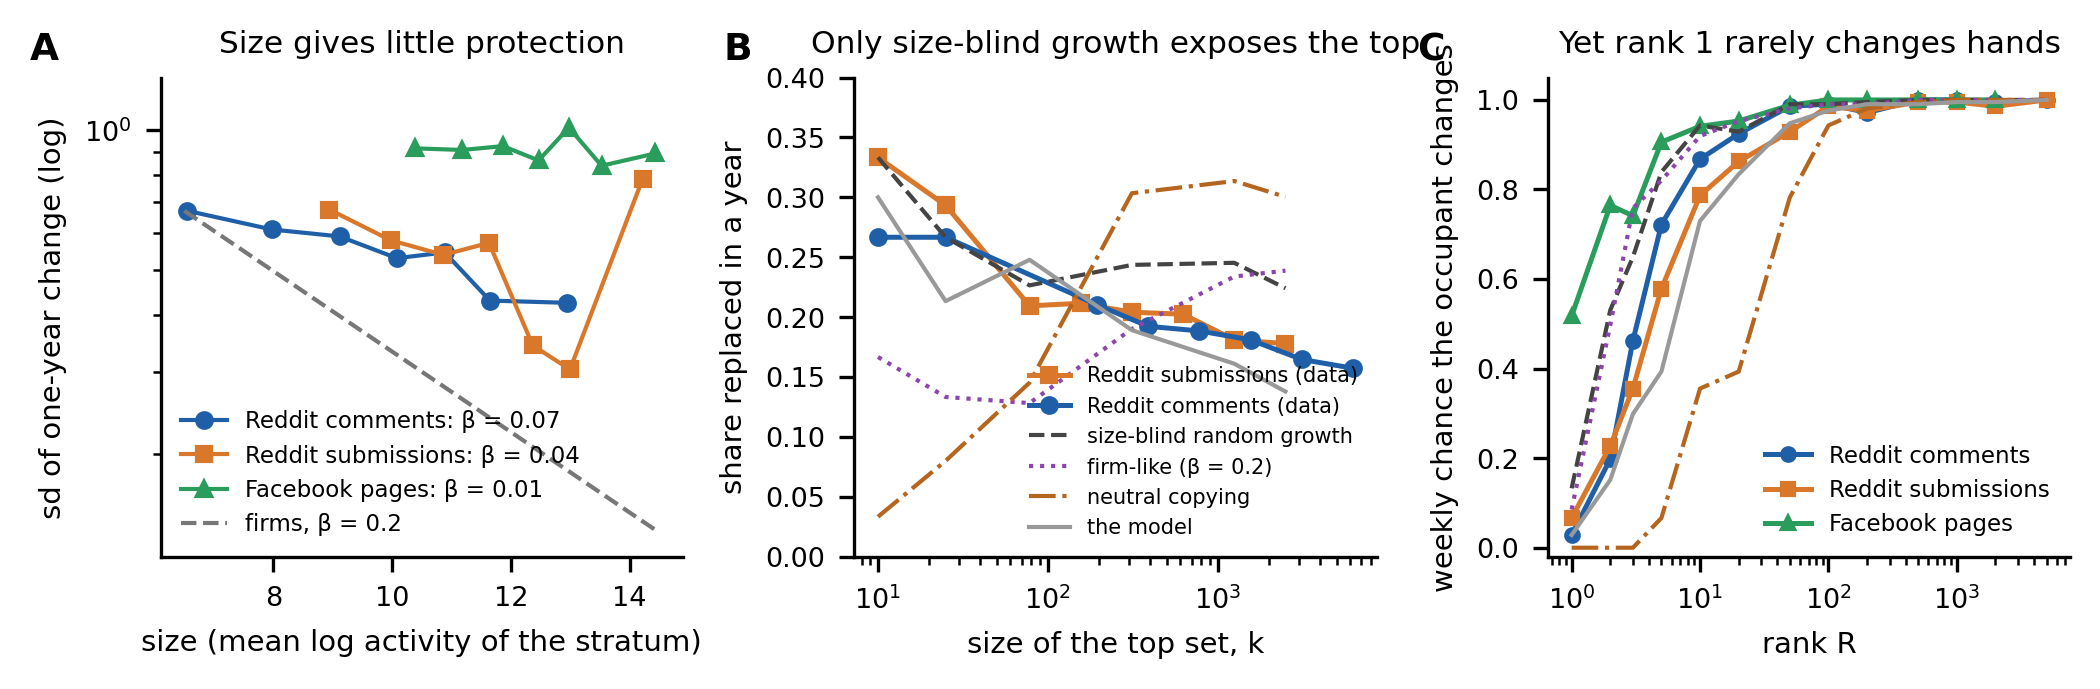
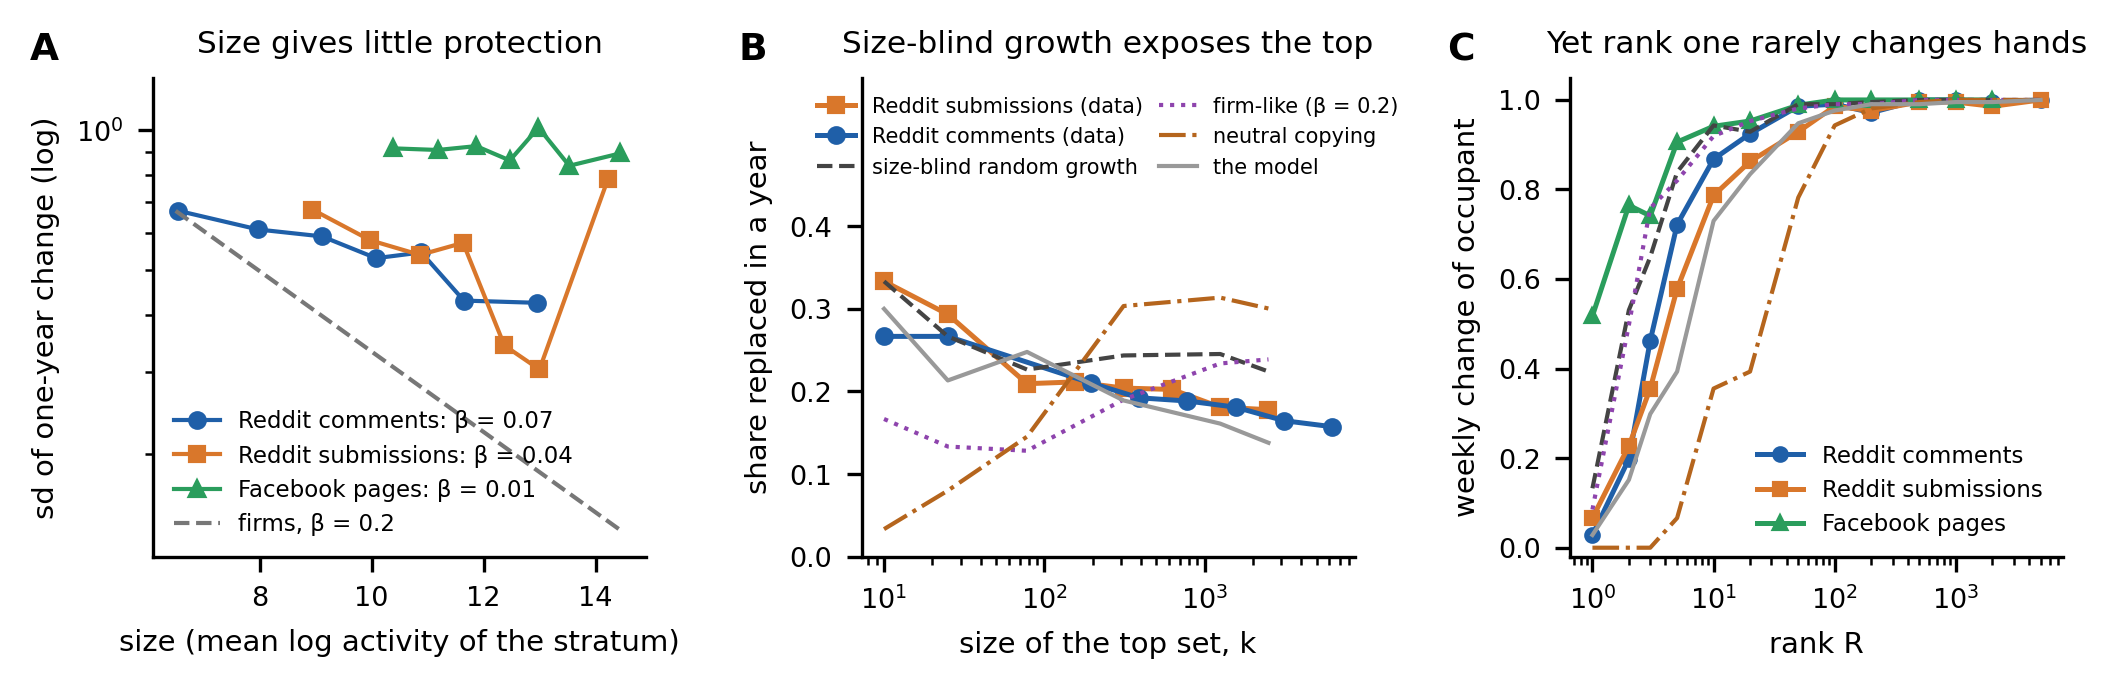
Fix the PDF layout: the first-page sidebar (Significance, author notes) is set explicitly because the repo's 2018 pnasresearcharticle.sty places it with \afterpage, which never fires under the 2025 class, so the box fell to the last page and body text ran into the sidebar; wide first column via \Fir

diff --git a/paper/pnas_draft.tex b/paper/pnas_draft.tex
@@ -13,6 +13,40 @@
 \templatetype{pnasresearcharticle}
 \usepackage{graphicx}
 \graphicspath{{../llm_fitting/runs/2026-10-18_pnas_push/}}
+
+%% First-page sidebar, set explicitly (2026-10-18): the repository's pnasresearcharticle.sty (v1.3, 2018) places the
+%% Significance box and author information with \afterpage, which does not fire with the 2025 class's output
+%% routine, so the box landed at the end of the document and body text ran into the sidebar. \Firstpage (2025
+%% template) sets the wide first-page column; \FirstPageBreak, placed where that column fills, sets the sidebar
+%% in the right column, ends page 1 and restores the normal column width.
+\additionalelement{}
+\makeatletter
+\newcommand{\FirstPageBreak}{%
+  {\parfillskip=0pt\par}%
+  \vfill\eject
+  \setlength{\columnwidth}{0.29\textwidth}\setlength{\linewidth}{0.29\textwidth}\setlength{\hsize}{0.29\textwidth}%
+  \noindent\begin{minipage}[t]{150pt}\sffamily
+    \mdfdefinestyle{pnassigstyle}{backgroundcolor=pnasblueback,linecolor=pnasblueback,fontcolor=pnasbluetext,innertopmargin=9.3pt,innerrightmargin=11.4pt,innerbottommargin=12pt,innerleftmargin=11.4pt,linewidth=0pt,userdefinedwidth=150pt}%
+    \begin{mdframed}[style=pnassigstyle]%
+      {\sffamily\bfseries\fontsize{10}{12}\selectfont\textcolor{pantone}{Significance}\par}\vskip6pt
+      \raggedright\fontsize{8.5}{12}\selectfont\textcolor{black}{\@significancestatement}
+    \end{mdframed}%
+  \end{minipage}\par
+  \vfill
+  \noindent\begin{minipage}[b]{150pt}\sffamily\scriptsize
+    \if!\AB@affillist!\else Author affiliations: \AB@affillist\par\vskip11.7pt
+    \hrule width 150pt height.5pt\par\vskip13.5pt\fi
+    \@ifundefined{@authorcontributions}{}{\@authorcontributions\par}\vskip3pt
+    \@ifundefined{@authordeclaration}{}{\@authordeclaration\par}\vskip3pt
+    \@ifundefined{@correspondingauthor}{}{\@correspondingauthor\par}
+  \end{minipage}\par
+  \vskip2pt
+  \eject
+  \normalcolwidth
+  \noindent\ignorespaces}
+\makeatother
+%% let tall double-column figures sit at the top of a text page rather than alone on a float page
+\renewcommand{\dbltopfraction}{0.85}\renewcommand{\dblfloatpagefraction}{0.8}\setcounter{dbltopnumber}{2}
 \newcommand{\todo}[1]{\textcolor{red!65!black}{\textbf{[TODO: #1]}}}
 
 %% Title (round-3 referees: "sustains" asserts a counterfactual; "slowly changing" is contradicted by arithmetic
@@ -44,13 +78,14 @@ Online attention is highly concentrated, yet its leaders change constantly. In w
 \maketitle
 \thispagestyle{firststyle}
 \ifthenelse{\boolean{shortarticle}}{\ifthenelse{\boolean{singlecolumn}}{\abscontentformatted}{\abscontent}}{}
+\Firstpage
 
 \dropcap{A}ttention online is concentrated: on every large platform a small number of communities, pages and channels receive most of the activity, along a steep rank--size curve. Yet the occupants of that curve do not stay, and attention to individual items decays within days \cite{wu2007}. In the data we study, about one in six of the top 12,500 Reddit communities is replaced within a year, and among the top ten between a quarter and a third. The curve itself changes slowly. How can a hierarchy persist when its occupants do not---and why are the leaders the least secure?
 %% §2z-cu; §2z-dg A1, A7-5
 
 Three bodies of work speak to this, and they point in different directions. Firm growth is size-dependent: the spread of a firm's annual growth falls with its size as a power with exponent near 0.2 \cite{stanley1996,amaral1997}, so large firms are steadier, and cumulative advantage lets early leaders accumulate more \cite{merton1968,salganik2006,vanderijt2014}. Studies of ranking dynamics across many systems find the top of a ranking the most stable part \cite{iniguez2022,blumm2012}, and cities show the same coexistence of a stable rank--size law with churning membership \cite{batty2006,duranton2007}. Random-growth theory explains how such laws can be stationary despite movement \cite{gibrat1931,champernowne1953,gabaix1999,gabaix2009,gllm2016}, and stochastic portfolio theory and Gomez's decomposition of top shares give the accounting: a top set's share changes through its members' growth and through displacement at its boundary, which volatility and the local steepness of the distribution predict \cite{fernholz2002,banner2005,ichiba2011,gomez2023}; rank-based models with entry and exit describe the same balance for equity markets \cite{bakersmyth2026}. Gomez tested that prediction for the Forbes 400 and applied the decomposition across the income distribution.
 
-We take these ideas to online attention and ask which features of its dynamics are automatic consequences of random growth and which are not. To separate them we compute every statistic, with the same estimators, in the data and in simulated worlds: size-blind random growth, firm-like size-dependent growth, neutral copying \cite{bentley2007}, and a model calibrated to the data. Three findings follow. Attention grows by Gibrat's law---size gives communities almost no protection---and that, not anything about attention per se, is why the top set turns over fastest, while the occupant of rank one, as in other rankings, rarely changes. Turnover replenishes the hierarchy at every rank at the rate random growth predicts, replacing about three quarters of what incumbents lose. And unlike any random-growth world, Reddit shows persistent decline in participation, which has been flattening the top of the hierarchy.
+We take these ideas to online attention and ask which features of its dynamics are automatic consequences of random growth and which are not. To separate them we compute every statistic, with the same estimators, in the data and in simulated worlds: size-blind random growth, firm-like size-dependent growth,\FirstPageBreak neutral copying \cite{bentley2007}, and a model calibrated to the data. Three findings follow. Attention grows by Gibrat's law---size gives communities almost no protection---and that, not anything about attention per se, is why the top set turns over fastest, while the occupant of rank one, as in other rankings, rarely changes. Turnover replenishes the hierarchy at every rank at the rate random growth predicts, replacing about three quarters of what incumbents lose. And unlike any random-growth world, Reddit shows persistent decline in participation, which has been flattening the top of the hierarchy.
 
 \section*{Results}
 
@@ -107,9 +142,9 @@ The informative quantity is therefore the level of the balance (Fig.~3\textit{B}
 \subsection*{A generative model}
 These ingredients define a model, which we built and tested (\textit{Materials and Methods}; \textit{SI Appendix}). Each community has a lasting level $H_i$ that wanders with nearly size-blind volatility under drift that depends on its rank,
 \begin{equation}
-H_i(t+1) = H_i(t) + g\big(r_i(t)\big) + \sigma(H_i)\,\eta_i(t),\qquad \sigma(H) = \sigma_0 e^{-\beta (H - H_0)},
+H_i(t+1) = H_i(t) + g\big(r_i(t)\big) + \sigma(H_i)\,\eta_i(t),
 \end{equation}
-and its observed log activity is $H_i$ plus deviations that revert toward it at rank-dependent rates (taken from our earlier permanent--transitory model, whose own fixed home this replaces), a fast swing and observation noise. Communities leave at rank-dependent rates and are replaced at the bottom. The volatility parameters come from a structure function of each stratum's changes; the drift by rank is either taken from the measured slides or solved so that the ladder at the end of the training window is held, which then makes the ladder an input. Including the inherited deviation profiles the model has many parameters; none is fitted to the statistics we test it on.
+with $\sigma(H) = \sigma_0 e^{-\beta (H - H_0)}$, and its observed log activity is $H_i$ plus deviations that revert toward it at rank-dependent rates (taken from our earlier permanent--transitory model, whose own fixed home this replaces), a fast swing and observation noise. Communities leave at rank-dependent rates and are replaced at the bottom. The volatility parameters come from a structure function of each stratum's changes; the drift by rank is either taken from the measured slides or solved so that the ladder at the end of the training window is held, which then makes the ladder an input. Including the inherited deviation profiles the model has many parameters; none is fitted to the statistics we test it on.
 
 Calibrated to Reddit submissions and run through the same estimators, the model reproduces the data's turnover profile (top ten 0.30 a year, $K/2$ 0.14), its size scaling ($\beta = 0.07$), the rarity of change at rank one (3\% of weeks) and the boundary ratio (1.08) (Fig.~2\textit{B}--\textit{C}). Its lasting core alone, started from complete equality with the measured volatility and slides, builds a hierarchy within about a decade (Fig.~4\textit{A}), whose steepness at each rank is $\sigma_k^2/(2\bar s_k)$ (Fig.~4\textit{B})---the stationary balance, which the simulation obeys as theory says it must---and which is flatter than the observed ladder at every rank, by 8--46\%: the measured volatility and slides would sustain a less steep hierarchy than the one observed, consistent with its flattening (20 simulations; the 90\% bands exclude the observed slope at every cut-off except the head of submissions). Without the slide the hierarchy steepens and without churn it collapses, but slowly: over two years either change moves the head by less than 0.3 log units a year against a span of 3--4 (Fig.~4\textit{C}).
 %% null_world__rdm.json; §2z-dg A3
@@ -118,7 +153,7 @@ On held-out weeks the model forecasts the distribution of rank changes over 1 to
 %% §2z-dg A5c (2x2), A6; GATE_LEDGER
 
 \begin{figure*}[tbp]\centering
-\includegraphics[width=0.82\textwidth]{fig4_model}
+\includegraphics[width=0.70\textwidth]{fig4_model}
 \caption{The generative model. (\textit{A}) From complete equality, the model's lasting core with the measured volatility and slides builds a hierarchy (shape at $K/64$ by year; 20 simulations, 90\% band). (\textit{B}) The local slope it reaches after 30 years (filled, 90\% band) against volatility over slide in the simulation, and the observed slopes (open). (\textit{C}) The rate of change of the shape at $K/64$ in two-year runs from the observed ladder with churn and slide, slide only and churn only. (\textit{D}) Held-out movement error on the four-year panels (mean $\pm$ sd over five origins; dotted, persistence) for a fixed home (the earlier model), a fixed home sliding by rank, a wandering home, a wandering home with drift by rank (the model), and the first frozen version.}
 \end{figure*}
 

diff --git a/llm_fitting/runs/2026-10-18_pnas_push/make_pnas_figures.py b/llm_fitting/runs/2026-10-18_pnas_push/make_pnas_figures.py
@@ -302,18 +302,19 @@ def fig5():
         d = gm[pn]["gapped"]
         gs = sorted(d, key=lambda x: int(x))
         a.plot([int(g) for g in gs], [d[g]["mean"] for g in gs], "-", marker=MK[pn], color=COL[pn], ms=3.5, lw=1,
-               label=LAB[pn] + (" (26-wk changes)" if pn == "facebook_a" else ""))
-    for w, lab, col, ls in WORLDS:
+               label={"reddit_comments_ext": "Reddit comments", "reddit_submissions_long": "Reddit submissions", "facebook_a": "Facebook (26-wk)"}[pn])
+    for n, (w, lab, col, ls) in enumerate(WORLDS):
         nw = load(HERE / f"null_world__{w}.json")["gapped"]
-        a.plot([13, 26], [nw["13"], nw["26"]], "x", color=col, ms=4, mew=1, label=f"{lab} (simulated)")
+        a.plot([13, 26], [nw["13"], nw["26"]], "x", color="#666666", ms=4, mew=1, label="simulated worlds" if n == 0 else None)
     syn = gm["synthetic"]
-    a.plot([0, 13, 26], [syn["i"]["gapped"][g] for g in ("0", "13", "26")], "--", color=GREY, lw=1, label="random walk + noise (simulated)")
+    a.plot([0, 13, 26], [syn["i"]["gapped"][g] for g in ("0", "13", "26")], "--", color=GREY, lw=1, label="random walk + noise")
     a.axhline(0, color=GREY, lw=0.4)
     a.set_xlabel("gap between the two changes (weeks)")
     a.set_ylabel("rank correlation of changes")
     a.set_title("Changes persist on Reddit")
-    a.legend(loc="center right", frameon=False, fontsize=4.8, bbox_to_anchor=(1.02, 0.45))
-    a.set_ylim(-0.15, 0.3)
+    a.legend(loc="upper center", frameon=False, fontsize=4.6, ncol=2, columnspacing=0.5, handlelength=1.3, handletextpad=0.3)
+    a.set_ylim(-0.15, 0.39)
+    a.set_yticks([-0.1, 0, 0.1, 0.2])
     tag(a, "A")
     a = ax[1]
     cats = ("activity", "posts", "per\npost", "later\norigins", "net of\ntrend")
@@ -333,7 +334,8 @@ def fig5():
     a.set_xticklabels(cats, fontsize=5.5)
     a.set_ylabel("gapped momentum (13-wk gap)")
     a.set_title("Carried by participation")
-    a.legend(loc="upper right", frameon=False)
+    a.set_ylim(0, 0.235)
+    a.legend(loc="upper center", frameon=False, ncol=2, fontsize=5.5)
     tag(a, "B")
     a = ax[2]
     gd = load(HERE / "gomez_decomposition.json")
@@ -355,9 +357,9 @@ def fig5():
     from matplotlib.lines import Line2D
     hand = [Patch(color="#999999", alpha=0.55, label="within (members)"), Patch(color="#555555", label="displacement"),
             Line2D([], [], color="k", marker="_", ls="", ms=9, mew=1.5, label="share change")]
-    a.text(1, 0.105, "submissions top 78", ha="center", fontsize=6, color=COL["reddit_submissions_long"])
-    a.text(4.6, 0.105, "comments top 195", ha="center", fontsize=6, color=COL["reddit_comments_ext"])
-    a.set_ylim(-0.30, 0.13)
+    a.text(1, 0.095, "submissions\ntop 78", ha="center", fontsize=5.5, color=COL["reddit_submissions_long"])
+    a.text(4.6, 0.095, "comments\ntop 195", ha="center", fontsize=5.5, color=COL["reddit_comments_ext"])
+    a.set_ylim(-0.30, 0.145)
     a.set_ylabel("relative change of the share a year")
     a.set_title("Displacement steady; members fall")
     a.legend(handles=hand, loc="lower right", frameon=False, fontsize=5.5)
@@ -404,11 +406,12 @@ def fig2v2():
         kk = sorted(int(k) for k in t)
         a.plot(kk, [t[str(k)] for k in kk], ls, color=col, lw=1, label=lab)
     a.set_xscale("log")
-    a.set_ylim(0, 0.4)
+    a.set_ylim(0, 0.58)
+    a.set_yticks([0, 0.1, 0.2, 0.3, 0.4])
     a.set_xlabel("size of the top set, k")
     a.set_ylabel("share replaced in a year")
-    a.set_title("Only size-blind growth exposes the top")
-    a.legend(loc="lower right", frameon=False, fontsize=5)
+    a.set_title("Size-blind growth exposes the top")
+    a.legend(loc="upper center", frameon=False, fontsize=5, ncol=2, columnspacing=0.8, handlelength=1.8)
     tag(a, "B")
     a = ax[2]
     for pn in COL:
@@ -422,8 +425,8 @@ def fig2v2():
     a.set_xscale("log")
     a.set_ylim(-0.02, 1.05)
     a.set_xlabel("rank R")
-    a.set_ylabel("weekly chance the occupant changes")
-    a.set_title("Yet rank 1 rarely changes hands")
+    a.set_ylabel("weekly change of occupant")
+    a.set_title("Yet rank one rarely changes hands")
     a.legend(loc="lower right", frameon=False, fontsize=5.5)
     tag(a, "C")
     fig.tight_layout(w_pad=1.2)
@@ -477,14 +480,14 @@ def fig3v2():
     for w, lab, col, ls in WORLDS:
         L_ = NW[w]["law"]
         a.scatter([1000 * L_["mean_sbar"]], [1000 * L_["mean_c"]], marker="X", s=40, color=col, edgecolor="white", lw=0.5, label=lab + " (mean)")
-    a.text(10.6, 0.4, "slide wins:\nflattens", fontsize=6, color=GREY, ha="center")
-    a.text(1.6, 7.2, "crossings win:\nsteepens", fontsize=6, color=GREY, ha="center")
+    a.text(11.6, 0.3, "slide wins: flattens", fontsize=5.5, color=GREY, ha="right")
+    a.text(0.4, 8.4, "crossings win: steepens", fontsize=5.5, color=GREY, ha="left")
     a.set_xlim(lim)
-    a.set_ylim(0, 8)
+    a.set_ylim(0, 9)
     a.set_xlabel("slide of the names above k (per 1,000 wk)")
     a.set_ylabel("crossing gain σ²/2S (per 1,000 wk)")
     a.set_title("Crossings against the slide")
-    a.legend(loc="center right", frameon=False, fontsize=5, bbox_to_anchor=(1.02, 0.62))
+    a.legend(loc="upper right", frameon=False, fontsize=4.6, bbox_to_anchor=(1.03, 0.93), handletextpad=0.3)
     tag(a, "B")
     a = ax[2]
     for pn in COL:
